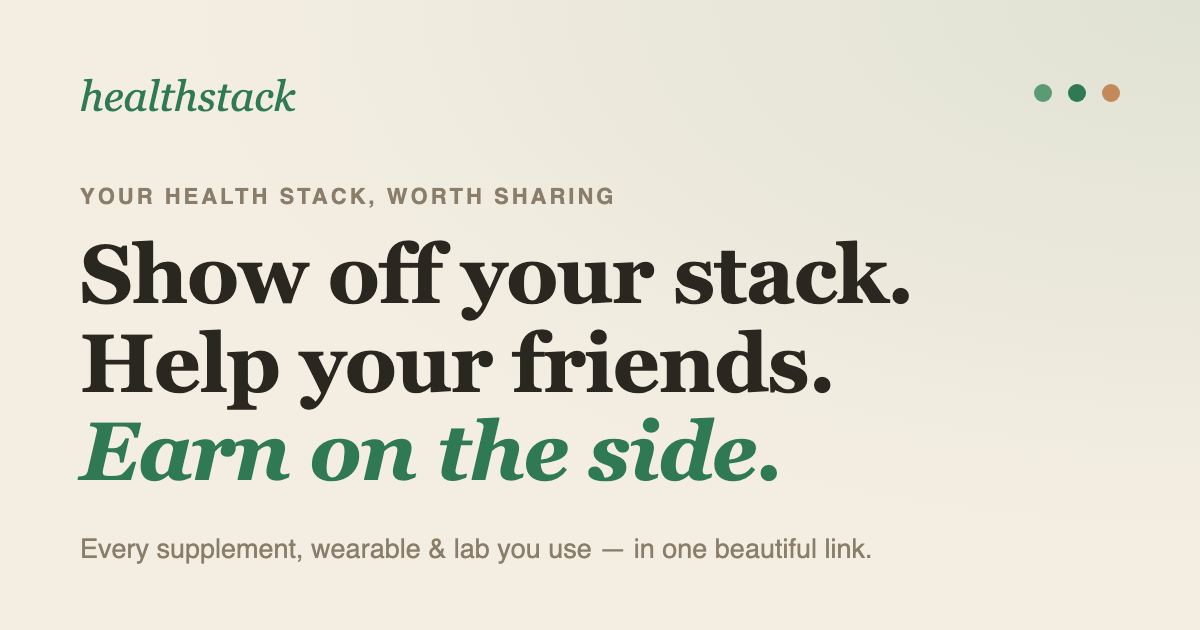
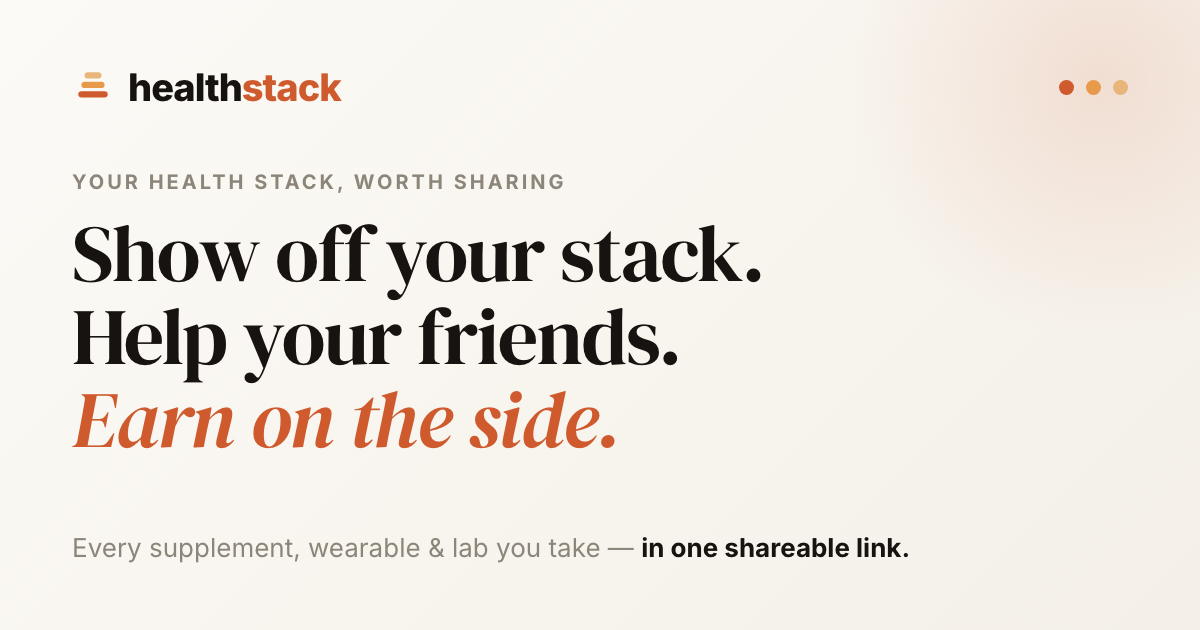
Regenerate OG link-preview card in current sienna design; cache-bust image URL

diff --git a/index.html b/index.html
@@ -18,13 +18,13 @@
   <meta property="og:title" content="Healthstack — Show off your stack" />
   <meta property="og:description" content="Share every supplement, wearable & lab you use — with why. Build your own in 2 minutes, free." />
   <meta property="og:url" content="https://stackapp-one.vercel.app/" />
-  <meta property="og:image" content="https://stackapp-one.vercel.app/og-card.png" />
+  <meta property="og:image" content="https://stackapp-one.vercel.app/og-card.png?v=2" />
   <meta property="og:image:width" content="1200" />
   <meta property="og:image:height" content="630" />
   <meta name="twitter:card" content="summary_large_image" />
   <meta name="twitter:title" content="Healthstack — Show off your stack" />
   <meta name="twitter:description" content="Share every supplement, wearable & lab you use — with why. Build yours free." />
-  <meta name="twitter:image" content="https://stackapp-one.vercel.app/og-card.png" />
+  <meta name="twitter:image" content="https://stackapp-one.vercel.app/og-card.png?v=2" />
   <link rel="preconnect" href="https://fonts.googleapis.com" />
   <link rel="preconnect" href="https://fonts.gstatic.com" crossorigin />
   <link href="https://fonts.googleapis.com/css2?family=DM+Serif+Display:ital@0;1&family=DM+Sans:opsz,wght@9..40,300;9..40,400;9..40,500;9..40,600;9..40,700&display=swap" rel="stylesheet" />